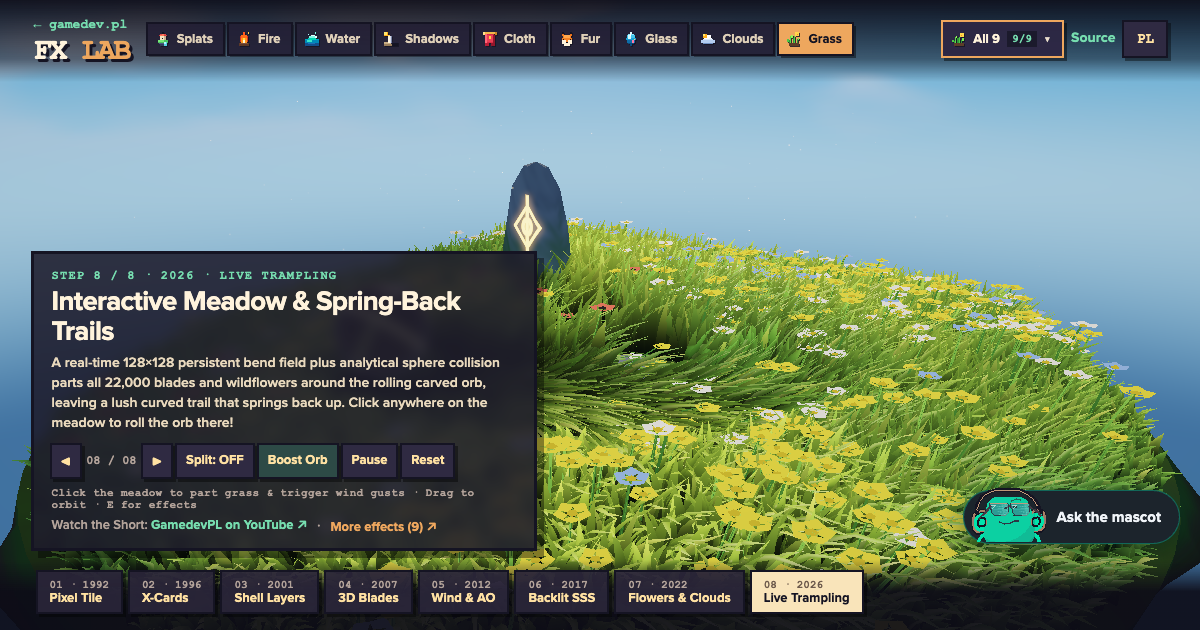
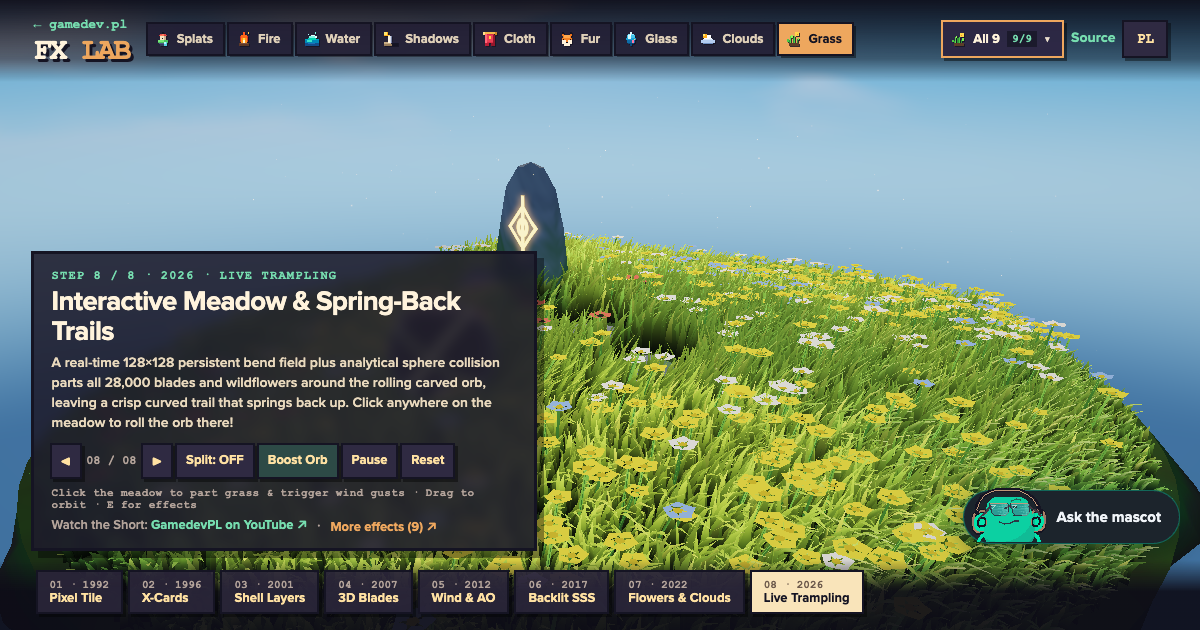
Switch grass blades to 28K slender rigid-arc bending with tight ball-width parting

diff --git a/docs/effects/grass/shaders.js b/docs/effects/grass/shaders.js
@@ -625,9 +625,8 @@ void main() {
   float aaBoost = 1.0 + clamp((camDist - 4.0) * 0.055, 0.0, 0.48);
   float width = baseW * (1.0 - pow(t, 1.45)) * aaBoost;
 
-  // Natural curved arc along blade height
-  vec2 bendXZ = fwd * (lean * height * t * t);
-  float yLocal = height * t;
+  // Natural rigid-length tilt vector (sin/cos arc guarantees blades NEVER stretch into giant shrub fronds!)
+  vec2 tiltXZ = fwd * lean;
   float waveCrest = 0.0;
   float flatAmt = 0.0;
 
@@ -635,43 +634,46 @@ void main() {
   if (uStage >= 4) {
     vec2 w = evalMeadowWind(base.xz, uWindPhase, uGust, waveCrest);
     float jitter = 0.85 + 0.30 * sin(cHash * 25.0 + uWindPhase * 6.2831853 * 12.0);
-    bendXZ += w * (height * t * t * 1.15 * jitter);
+    tiltXZ += w * (0.95 * jitter);
   }
 
-  // Step 8 (2026): Crisp 128x128 persistent wake trail + exact analytical sphere-blade parting (ZERO clipping!)
+  // Step 8 (2026): Crisp ball-width wake trail + tight analytical sphere parting (rigid blade length preserved!)
   if (uStage >= 7) {
     vec2 tuv = base.xz / uTrailSpan + 0.5;
     if (tuv.x > 0.005 && tuv.x < 0.995 && tuv.y > 0.005 && tuv.y < 0.995) {
       vec3 tr = texture(uTrailTex, tuv).rgb;
-      vec2 push = (tr.rg * 2.0 - 1.0) * 1.95;
+      vec2 push = (tr.rg * 2.0 - 1.0);
       flatAmt = clamp(tr.b, 0.0, 1.0);
-      // Damp wind sway when crushed flat into the ground, lay blades cleanly outward along wake
-      bendXZ = mix(bendXZ, push * (height * (0.48 * t + 0.72 * t * t)), smoothstep(0.0, 0.65, flatAmt));
-      yLocal *= mix(1.0, 0.14, flatAmt * (0.40 + 0.60 * t));
+      // Gently bend crushed blades along trail direction (max ~58 deg -> clean lawn track, zero flattened bushes!)
+      tiltXZ = mix(tiltXZ, push * 1.15, smoothstep(0.0, 0.75, flatAmt) * 0.82);
     }
-    // Exact analytical collision right around the rolling orb perimeter so ZERO blades poke into the sphere!
+    // Tight physical sphere contact right around the rolling orb perimeter (collR = 1.48 * R)
     vec2 away = base.xz - uOrbPos.xz;
     float d = length(away);
-    float collR = uOrbRadius * 2.55;
+    float collR = uOrbRadius * 1.52;
     if (d < collR) {
       vec2 dir = (d > 1e-4) ? (away / d) : fwd;
-      float prox = 1.0 - smoothstep(uOrbRadius * 0.55, collR, d);
-      float pushOut = (uOrbRadius * 1.15 - min(d, uOrbRadius * 1.15)) + prox * height * 1.05;
-      bendXZ = mix(bendXZ, dir * (pushOut * (0.45 * t + 0.75 * t * t)), prox);
-      yLocal *= mix(1.0, 0.10, prox * smoothstep(0.0, 0.35, t));
-      flatAmt = max(flatAmt, prox);
+      float prox = 1.0 - smoothstep(uOrbRadius * 0.35, collR, d);
+      // Smoothly tilt blade away from sphere surface (up to ~76 deg directly underneath, tapering to 0 at collR)
+      tiltXZ = mix(tiltXZ, dir * 1.32, prox);
+      flatAmt = max(flatAmt, prox * 0.85);
     }
   }
 
-  // Arc-length preservation: strong wind / flattening naturally lowers blade tips instead of stretching!
-  float bLen = length(bendXZ);
-  float arcDrop = sqrt(max(0.14, 1.0 - min(0.86, (bLen / max(0.08, height)) * 0.54)));
-  yLocal *= arcDrop;
+  // Exact trigonometric arc-length preservation: sqrt(horiz^2 + vert^2) === height * t ALWAYS!
+  float tLen = length(tiltXZ);
+  float tiltAng = min(tLen, 1.34); // cap at ~76 deg so blades stay slender & never over-stretch!
+  vec2 tiltDir = (tLen > 1e-4) ? (tiltXZ / tLen) : fwd;
+  float ang = tiltAng * (0.28 * t + 0.72 * t * t);
+  float arcLen = height * t;
+  float horiz = arcLen * sin(ang);
+  float yLocal = arcLen * cos(ang);
+  vec2 bendXZ = tiltDir * horiz;
 
   vec3 pos = base + vec3(bendXZ.x + right.x * side * width, yLocal, bendXZ.y + right.y * side * width);
 
-  // Analytical curved tangent & tubular V-crease normal so sunlight glides smoothly across wind waves!
-  vec3 tang = normalize(vec3(bendXZ.x * 2.0 + fwd.x * 0.05, max(0.08, yLocal), bendXZ.y * 2.0 + fwd.y * 0.05));
+  // Exact analytical tangent along curved arc + tubular V-crease normal
+  vec3 tang = normalize(vec3(tiltDir.x * sin(ang), max(0.10, cos(ang)), tiltDir.y * sin(ang)));
   vec3 nBase = normalize(cross(vec3(right.x, 0.0, right.y), tang));
   if (nBase.y < 0.0) nBase = -nBase;
   vec3 nCreased = normalize(mix(nBase, vec3(0.0, 1.0, 0.0), 0.22) + vec3(right.x, 0.0, right.y) * (side * 0.42));
@@ -775,10 +777,10 @@ void main() {
   // Crisp anisotropic grazing specular glint along wind waves
   float spec = pow(ndh, 36.0) * (0.18 + 0.34 * vWaveCrest) * pow(vH, 1.5) * sunVis;
 
-  // Crushed/parted trail shading: pressed-down blades sit deeper in shade & reveal a clear lush wake track!
-  float trackShade = mix(1.0, 0.56, vFlat * (1.0 - vH * 0.35));
+  // Subtle pressed-grass lawn-stripe contrast (clean mown-path look without dark pits!)
+  float trackShade = mix(1.0, 0.80, vFlat * (1.0 - vH * 0.45));
   vec3 col = albedo * rootAO * trackShade * (skyAmb * 1.05 + sunCol * (0.18 + 0.95 * ndl) * sunVis)
-           + sssCol * mix(1.0, 0.35, vFlat)
+           + sssCol * mix(1.0, 0.65, vFlat)
            + sunCol * spec * 0.52;
   outColor = vec4(col, 1.0);
 }
@@ -830,36 +832,37 @@ void main() {
   vec3 rotP = vec3(lp.x * c - lp.z * s, lp.y, lp.x * s + lp.z * c);
   vec3 rotN = normalize(vec3(aLocalNorm.x * c - aLocalNorm.z * s, aLocalNorm.y, aLocalNorm.x * s + aLocalNorm.z * c));
 
-  // Identical wind + trail bend so flowers sway and part organically inside the grass!
+  // Identical rigid-length trigonometric wind + trail bend so flowers sway and part cleanly with the grass!
   float wc;
   vec2 w = evalMeadowWind(base.xz, uWindPhase, uGust, wc);
   float jitter = 0.88 + 0.24 * sin(seed * 20.0 + uWindPhase * 6.2831853 * 12.0);
-  vec2 bendXZ = w * (h * t * t * 1.15 * jitter);
-  float yLocal = rotP.y;
+  vec2 tiltXZ = w * (0.95 * jitter);
 
   if (uStage >= 7) {
     vec2 tuv = base.xz / uTrailSpan + 0.5;
     if (tuv.x > 0.005 && tuv.x < 0.995 && tuv.y > 0.005 && tuv.y < 0.995) {
       vec3 tr = texture(uTrailTex, tuv).rgb;
-      vec2 push = (tr.rg * 2.0 - 1.0) * 1.95;
+      vec2 push = (tr.rg * 2.0 - 1.0);
       float flatAmt = clamp(tr.b, 0.0, 1.0);
-      bendXZ = mix(bendXZ, push * (h * (0.48 * t + 0.72 * t * t)), smoothstep(0.0, 0.65, flatAmt));
-      yLocal *= mix(1.0, 0.18, flatAmt * (0.40 + 0.60 * t));
+      tiltXZ = mix(tiltXZ, push * 1.10, smoothstep(0.0, 0.75, flatAmt) * 0.80);
     }
     vec2 away = base.xz - uOrbPos.xz;
     float d = length(away);
-    float collR = uOrbRadius * 2.55;
+    float collR = uOrbRadius * 1.52;
     if (d < collR) {
       vec2 dir = (d > 1e-4) ? (away / d) : vec2(c, s);
-      float prox = 1.0 - smoothstep(uOrbRadius * 0.55, collR, d);
-      float pushOut = (uOrbRadius * 1.15 - min(d, uOrbRadius * 1.15)) + prox * h * 1.05;
-      bendXZ = mix(bendXZ, dir * (pushOut * (0.45 * t + 0.75 * t * t)), prox);
-      yLocal *= mix(1.0, 0.14, prox * smoothstep(0.0, 0.35, t));
+      float prox = 1.0 - smoothstep(uOrbRadius * 0.35, collR, d);
+      tiltXZ = mix(tiltXZ, dir * 1.28, prox);
     }
   }
 
-  float bLen = length(bendXZ);
-  yLocal *= sqrt(max(0.20, 1.0 - min(0.80, (bLen / max(0.08, h)) * 0.50)));
+  float tLen = length(tiltXZ);
+  float tiltAng = min(tLen, 1.30);
+  vec2 tiltDir = (tLen > 1e-4) ? (tiltXZ / tLen) : vec2(c, s);
+  float ang = tiltAng * (0.28 * t + 0.72 * t * t);
+  float arcLen = rotP.y;
+  vec2 bendXZ = tiltDir * (arcLen * sin(ang));
+  float yLocal = arcLen * cos(ang);
 
   vec3 worldPos = base + vec3(rotP.x + bendXZ.x, yLocal, rotP.z + bendXZ.y);
   vWorldPos = worldPos;

diff --git a/docs/src/catalog.js b/docs/src/catalog.js
@@ -1354,9 +1354,9 @@ export const EFFECTS = [
     pl: "Ewolucja Trawy i Roślinności",
     shortEn: "Grass",
     shortPl: "Trawa",
-    summaryEn: "Thirty-four years of game grass: 1992 pixel tiles, 1996 crossed alpha X-cards, 2001 stacked shell layers, 22,000 GPU-instanced 3D blades, travelling wind waves, backlit SSS, swaying wildflowers, and live spring-damper trampling trails.",
-    summaryPl: "34 lata trawy w grach: pikselowa tekstura 1992, skrzyżowane karty X z 1996, 10 warstw shell 2001, 22 000 instancjonowanych źdźbeł 3D, fale wiatru, podświetlone SSS, polne kwiaty i żywe wydeptywanie ścieżek.",
-    tags: ["Alpha X-Cards", "22K Instanced", "Backlit SSS", "Live Trails"],
+    summaryEn: "Thirty-four years of game grass: 1992 pixel tiles, 1996 crossed alpha X-cards, 2001 stacked shell layers, 28,000 GPU-instanced 3D blades, travelling wind waves, backlit SSS, swaying wildflowers, and live spring-damper trampling trails.",
+    summaryPl: "34 lata trawy w grach: pikselowa tekstura 1992, skrzyżowane karty X z 1996, 10 warstw shell 2001, 28 000 instancjonowanych źdźbeł 3D, fale wiatru, podświetlone SSS, polne kwiaty i żywe wydeptywanie ścieżek.",
+    tags: ["Alpha X-Cards", "28K Instanced", "Backlit SSS", "Live Trails"],
     videoUrl: "https://www.youtube.com/@gamedev_pl",
     videoLabelKey: "channelLink",
     steps: [
@@ -1418,17 +1418,17 @@ export const EFFECTS = [
         era: "2007",
         tabEn: "3D Blades",
         tabPl: "Źdźbła 3D",
-        en: "22,000 GPU-Instanced 3D Blades",
-        pl: "22 000 instancjonowanych źdźbeł 3D",
-        noteEn: "Real curved tapered geometry arrives: 22,000 individual 4-segment blades rendered in one instanced draw call. Crisp silhouettes from any angle, though still stiff and uniformly green. Toggle Blade Mesh to inspect the geometry!",
-        notePl: "Prawdziwa geometria 3D: 22 000 zakrzywionych, zwężających się źdźbeł w jednym wywołaniu instancjonowanym. Ostra sylwetka z każdego kąta, ale wciąż sztywna i jednolicie zielona. Włącz Siatkę źdźbeł!",
+        en: "28,000 GPU-Instanced 3D Blades",
+        pl: "28 000 instancjonowanych źdźbeł 3D",
+        noteEn: "Real curved tapered geometry arrives: 28,000 individual 4-segment blades rendered in one instanced draw call. Crisp silhouettes from any angle, though still stiff and uniformly green. Toggle Blade Mesh to inspect the geometry!",
+        notePl: "Prawdziwa geometria 3D: 28 000 zakrzywionych, zwężających się źdźbeł w jednym wywołaniu instancjonowanym. Ostra sylwetka z każdego kąta, ale wciąż sztywna i jednolicie zielona. Włącz Siatkę źdźbeł!",
         stage: 3,
         compareLeft: 2,
         compareRight: 3,
         leftTagEn: "SHELL LAYERS",
-        rightTagEn: "22K 3D BLADES",
+        rightTagEn: "28K 3D BLADES",
         leftTagPl: "WARSTWY SHELL",
-        rightTagPl: "22K ŹDŹBEŁ 3D",
+        rightTagPl: "28K ŹDŹBEŁ 3D",
         action: { id: "wire", en: "Blade Mesh", pl: "Siatka źdźbeł", toggle: true },
       },
       {
@@ -1490,8 +1490,8 @@ export const EFFECTS = [
         tabPl: "Żywe ścieżki",
         en: "Interactive Meadow & Spring-Back Trails",
         pl: "Interaktywna łąka i sprężyste ścieżki",
-        noteEn: "A real-time 128×128 persistent bend field plus analytical sphere collision parts all 22,000 blades and wildflowers around the rolling carved orb, leaving a lush curved trail that springs back up. Click anywhere on the meadow to roll the orb there!",
-        notePl: "Pole ugięcia 128×128 w czasie rzeczywistym i dokładna kolizja ze sferą rozchylają 22 000 źdźbeł i kwiatów wokół toczącej się kuli, zostawiając długą wygniecioną ścieżkę, która powoli wstaje. Kliknij dowolne miejsce na łące, by posłać tam kulę!",
+        noteEn: "A real-time 128×128 persistent bend field plus analytical sphere collision parts all 28,000 blades and wildflowers around the rolling carved orb, leaving a crisp curved trail that springs back up. Click anywhere on the meadow to roll the orb there!",
+        notePl: "Pole ugięcia 128×128 w czasie rzeczywistym i dokładna kolizja ze sferą rozchylają 28 000 źdźbeł i kwiatów wokół toczącej się kuli, zostawiając naturalny ślad, który powoli wstaje. Kliknij dowolne miejsce na łące, by posłać tam kulę!",
         stage: 7,
         compareLeft: 0,
         compareRight: 7,

diff --git a/docs/effects/grass/index.js b/docs/effects/grass/index.js
@@ -122,9 +122,9 @@ export function createGrassEffect(gl) {
     [0, 3, 7, 0], [1, 3, 7, 3], [2, 1, 7, 6],
   ], true);
 
-  // 22,000 GPU-instanced curved 3D grass blades
+  // 28,000 slender GPU-instanced curved 3D grass blades
   const bladeGeo = buildBladeGeometry();
-  const bladeInst = buildBladeInstances(22000);
+  const bladeInst = buildBladeInstances(28000);
   const vaoBlades = gl.createVertexArray();
   gl.bindVertexArray(vaoBlades);
   const bVbo = gl.createBuffer();
@@ -375,7 +375,7 @@ export function createGrassEffect(gl) {
           clickTarget = r > maxR ? [(hit[0] / r) * maxR, (hit[1] / r) * maxR] : hit;
           orbBoost = 1.0;
         }
-        stampTrail(hit[0], hit[1], 1.10, 1.0, 0.90, 0.84, 0.54);
+        stampTrail(hit[0], hit[1], ORB_R * 1.45, 0.92, 0.85, 0.84, 0.54);
         uploadTrail();
       }
       gustPulse = Math.max(gustPulse, 0.78);
@@ -385,7 +385,7 @@ export function createGrassEffect(gl) {
         "1992 · PIXEL TILE",
         showCardsOn ? "1996 · X-CARDS EXPOSED" : "1996 · ALPHA X-CARDS",
         "2001 · 10 SHELL LAYERS",
-        showWireOn ? "2007 · 22K BLADE MESH" : "2007 · 22K 3D BLADES",
+        showWireOn ? "2007 · 28K BLADE MESH" : "2007 · 28K 3D BLADES",
         "2012 · WIND + ROOT AO",
         "2017 · BACKLIT SSS",
         "2022 · FLOWERS + CLOUDS",
@@ -401,9 +401,9 @@ export function createGrassEffect(gl) {
       gustPulse *= Math.exp(-dt * 1.15);
       orbBoost *= Math.exp(-dt * 1.05);
 
-      // Longer spring-back decay (~5s curved ribbon trail snaking behind the rolling orb!)
-      const bendDecay = Math.exp(-dt * 0.36);
-      const flatDecay = Math.exp(-dt * 0.22);
+      // Natural spring-back decay (~2.8s ball-width curved lawn wake, springs gracefully back upright!)
+      const bendDecay = Math.exp(-dt * 0.68);
+      const flatDecay = Math.exp(-dt * 0.52);
       for (let i = 0; i < N; i++) {
         trBX[i] *= bendDecay;
         trBZ[i] *= bendDecay;
@@ -471,7 +471,7 @@ export function createGrassEffect(gl) {
       orbPos = nextPos;
 
       if (step && step.stage >= 7) {
-        stampTrail(orbPos[0], orbPos[2], 0.96, 1.0, 0.98, dx, dz);
+        stampTrail(orbPos[0], orbPos[2], ORB_R * 1.38, 1.0, 0.92, dx, dz);
       }
       uploadTrail();
     },

diff --git a/docs/effects/grass/scene.js b/docs/effects/grass/scene.js
@@ -406,10 +406,10 @@ export function buildBladeGeometry() {
   return { vertices: verts, indices };
 }
 
-// 22,000 GPU-instanced grass blades packed into two vec4 instance attributes:
+// 28,000 slender GPU-instanced grass blades packed into two vec4 instance attributes:
 // instPosH: (x, y, z, height)
 // instMeta: (yaw, width, lean, colorHash)
-export function buildBladeInstances(count = 22000) {
+export function buildBladeInstances(count = 28000) {
   const rng = mulberry32(20260420);
   const posH = new Float32Array(count * 4);
   const meta = new Float32Array(count * 4);
@@ -425,13 +425,13 @@ export function buildBladeInstances(count = 22000) {
     if (isClearedForProp(x, z, 0.02)) continue;
 
     const y = hillHeight(x, z) - 0.02;
-    // Natural meadow height clumps (taller lush tufts in rolling patches, gently shorter near island edge)
+    // Fine natural meadow grass proportions (slender blades, zero chunky shrub fronds!)
     const patch = 0.5 + 0.5 * Math.sin(x * 1.1 + 0.5) * Math.cos(z * 1.05 - 0.4);
     const edgeTaper = rad > MEADOW_R - 0.75 ? Math.max(0.45, (MEADOW_R - 0.12 - rad) / 0.65) : 1.0;
-    const h = (0.34 + patch * 0.24 + rng() * 0.22) * edgeTaper;
-    const w = 0.044 + rng() * 0.024;
+    const h = (0.26 + patch * 0.16 + rng() * 0.16) * edgeTaper;
+    const w = 0.030 + rng() * 0.017;
     const yaw = rng() * Math.PI * 2;
-    const lean = 0.16 + rng() * 0.34;
+    const lean = 0.14 + rng() * 0.24;
     const colHash = rng();
 
     const o = placed * 4;
@@ -542,8 +542,8 @@ export function buildFlowerInstances(count = 650) {
     if (isClearedForProp(x, z, 0.14)) continue;
 
     const y = hillHeight(x, z) - 0.015;
-    const h = 0.42 + rng() * 0.30;
-    const scale = 0.85 + rng() * 0.50;
+    const h = 0.32 + rng() * 0.22;
+    const scale = 0.80 + rng() * 0.42;
     const yaw = rng() * Math.PI * 2;
     const seed = rng();
 
